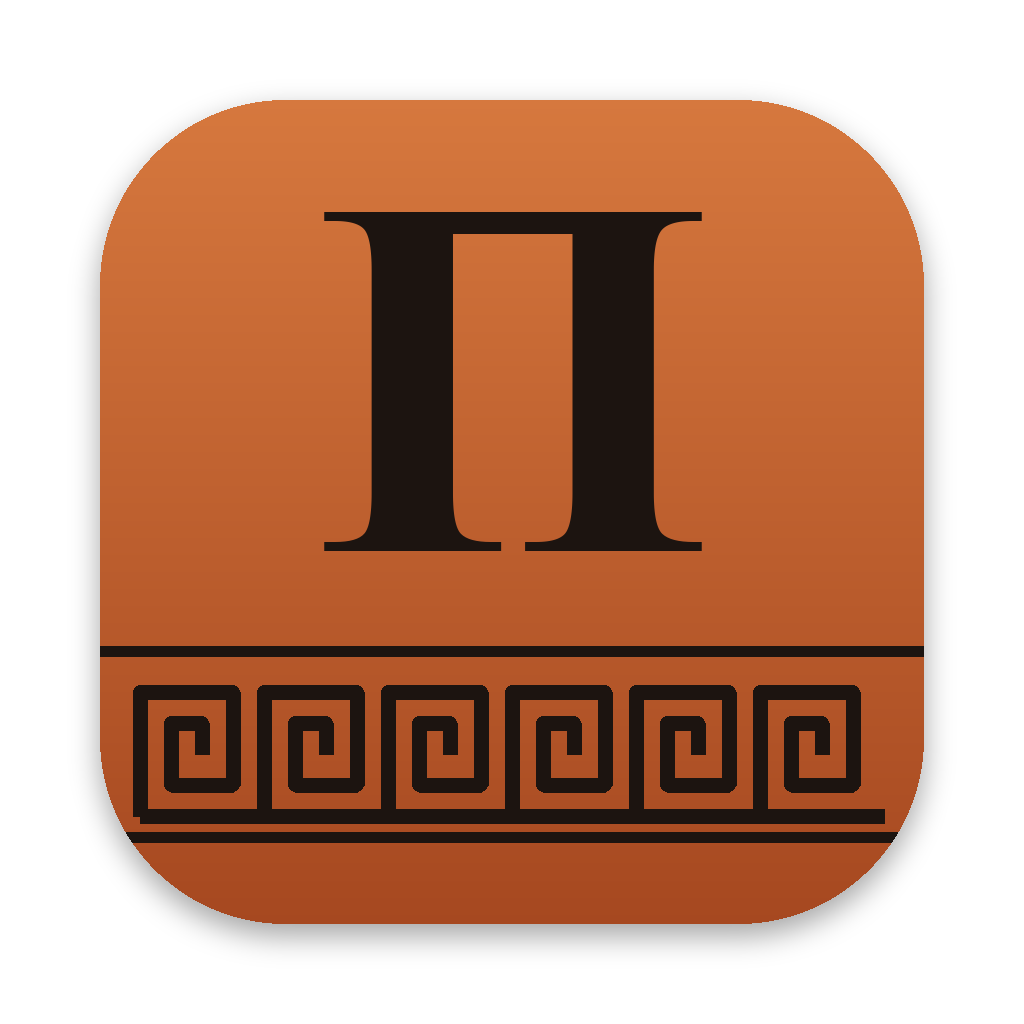
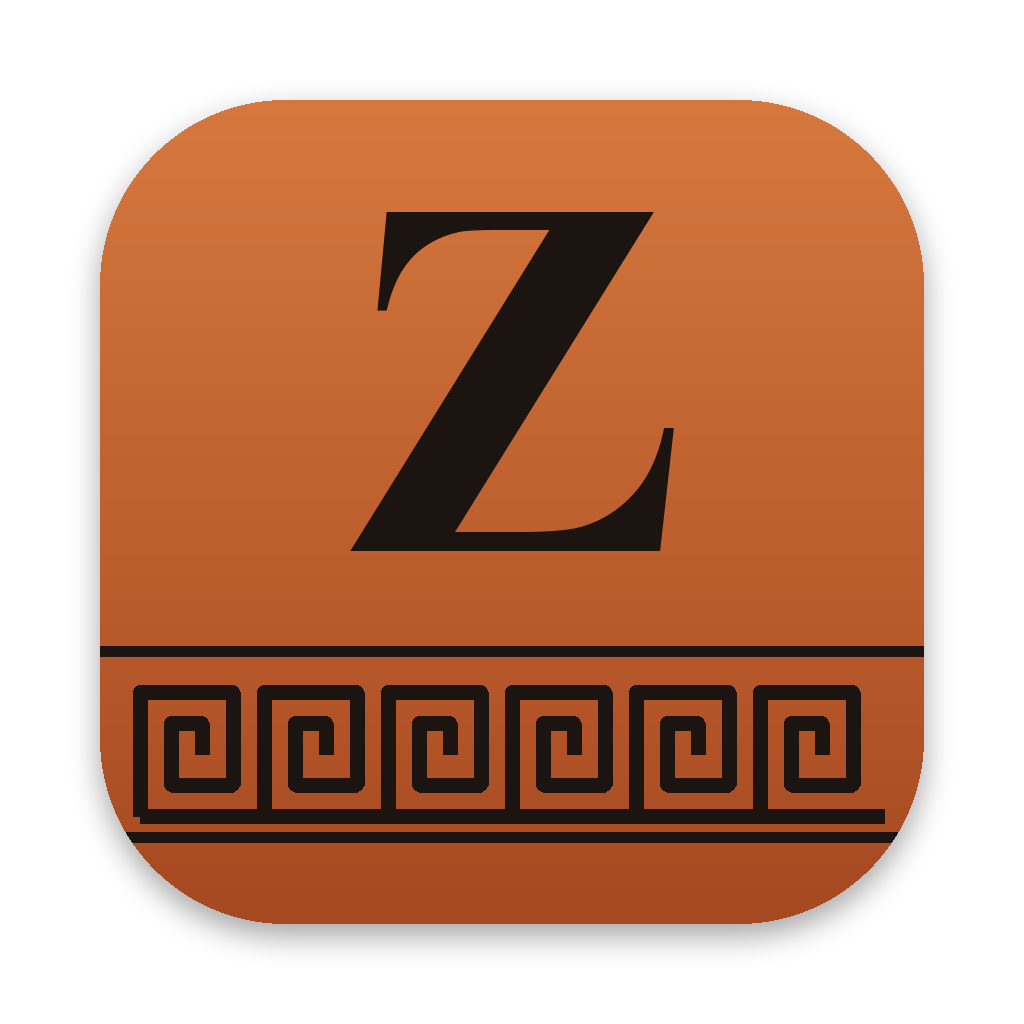
refactor: rename the app from Pinakes to Zetesis and prepare it for notarization
- Product, bundle id (com.tsevis.zetesis), source folders, Application Support folder, log,
  LaunchAgent label, defaults domain and ZETESIS_* environment variables all take the new name.
- The icon draws a black-figure Zeta instead of Pi.
- Hardened runtime is on, as notarization requires.
- README explains the name and how to sign and notarize with biblioteca's script.

Changed region(s): [[0.3125, 0.1875, 0.6875, 0.5312], [0.6562, 0.5312, 0.6875, 0.5625], [0.3125, 0.5312, 0.3438, 0.5625]]

diff --git a/Zetesis/Views/SettingsView.swift b/Zetesis/Views/SettingsView.swift
@@ -23,9 +23,9 @@ struct SettingsView: View {
                 }
             }
             Section("Ενημέρωση") {
-                Text("Όσο το Pinakes είναι ανοιχτό, κάθε νέο βιβλίο μπαίνει στο ευρετήριο μόλις τελειώσει η αντιγραφή του.")
+                Text("Όσο το Zetesis είναι ανοιχτό, κάθε νέο βιβλίο μπαίνει στο ευρετήριο μόλις τελειώσει η αντιγραφή του.")
                     .font(.callout).foregroundStyle(.secondary)
-                Toggle("Ενημέρωση και όταν το Pinakes είναι κλειστό", isOn: $backgroundUpdates)
+                Toggle("Ενημέρωση και όταν το Zetesis είναι κλειστό", isOn: $backgroundUpdates)
                     .onChange(of: backgroundUpdates) { _, on in setAgent(on) }
                     .disabled(model.library == nil)
                 if let agentError { Text(agentError).foregroundStyle(.red).font(.caption) }

diff --git a/Zetesis/Views/ContentView.swift b/Zetesis/Views/ContentView.swift
@@ -98,10 +98,10 @@ struct Onboarding: View {
 
     var body: some View {
         ContentUnavailableView {
-            Label("Pinakes", systemImage: "books.vertical")
+            Label("Zetesis", systemImage: "books.vertical")
         } description: {
             Text("Διάλεξε τον φάκελο με τα βιβλία σου (PDF, EPUB, φακέλους md). "
-                 + "Τίποτα δεν μετακινείται: το Pinakes διαβάζει, ταξινομεί και ψάχνει μέσα σε όλα.")
+                 + "Τίποτα δεν μετακινείται: το Zetesis διαβάζει, ταξινομεί και ψάχνει μέσα σε όλα.")
         } actions: {
             Button("Επιλογή φακέλου…") { FolderPicker.chooseLibrary(for: model) }
                 .buttonStyle(.borderedProminent)

diff --git a/Zetesis/Services/LibraryLocation.swift b/Zetesis/Services/LibraryLocation.swift
@@ -3,8 +3,8 @@ import Foundation
 /// Where things are: the library folder the user chose, and the index the engine keeps for it.
 enum LibraryLocation {
     static let supportFolder = FileManager.default.homeDirectoryForCurrentUser
-        .appending(path: "Library/Application Support/Pinakes", directoryHint: .isDirectory)
-    static let log = FileManager.default.homeDirectoryForCurrentUser.appending(path: "Library/Logs/Pinakes.log")
+        .appending(path: "Library/Application Support/Zetesis", directoryHint: .isDirectory)
+    static let log = FileManager.default.homeDirectoryForCurrentUser.appending(path: "Library/Logs/Zetesis.log")
     private static let libraryKey = "libraryPath"
 
     static var library: URL? {

diff --git a/Zetesis/Views/ReaderView.swift b/Zetesis/Views/ReaderView.swift
@@ -45,7 +45,7 @@ struct ReaderView: View {
                 ContentUnavailableView("Ο δίσκος της βιβλιοθήκης δεν είναι συνδεδεμένος", systemImage: "externaldrive")
             }
         }
-        .navigationTitle(book?.title ?? "Pinakes")
+        .navigationTitle(book?.title ?? "Zetesis")
         .navigationSubtitle(hits.isEmpty ? "σελ. \(page)" : "\(hits.count) σελίδες με ευρήματα · σελ. \(page)")
         .onChange(of: current) { _, id in
             if let hit = hits.first(where: { $0.id == id }) { page = hit.page }

diff --git a/Zetesis/Services/SearchEngine.swift b/Zetesis/Services/SearchEngine.swift
@@ -10,8 +10,8 @@ final class SearchEngine: Sendable {
     let databaseURL: URL
     private let ranker: SQLiteConnection
     private let reader: SQLiteConnection
-    private let rankQueue = DispatchQueue(label: "pinakes.rank", qos: .userInitiated)
-    private let readQueue = DispatchQueue(label: "pinakes.read", qos: .userInitiated)
+    private let rankQueue = DispatchQueue(label: "zetesis.rank", qos: .userInitiated)
+    private let readQueue = DispatchQueue(label: "zetesis.read", qos: .userInitiated)
 
     init(databaseURL: URL) throws {
         self.databaseURL = databaseURL

diff --git a/Zetesis/Services/EngineInstall.swift b/Zetesis/Services/EngineInstall.swift
@@ -46,7 +46,7 @@ enum EngineInstall {
     }
 
     static func environment(library: URL) -> [String: String] {
-        ["PATH": toolPath, "HOME": NSHomeDirectory(), "PINAKES_LIBRARY": library.path(percentEncoded: false),
+        ["PATH": toolPath, "HOME": NSHomeDirectory(), "ZETESIS_LIBRARY": library.path(percentEncoded: false),
          "PYTHONDONTWRITEBYTECODE": "1", "LANG": "el_GR.UTF-8"]
     }
 }

diff --git a/Zetesis/Services/BackgroundAgent.swift b/Zetesis/Services/BackgroundAgent.swift
@@ -6,7 +6,7 @@ enum BackgroundAgent {
 
     static var isInstalled: Bool {
         let names = (try? FileManager.default.contentsOfDirectory(atPath: agents.path)) ?? []
-        return names.contains { $0.hasPrefix("com.tsevis.pinakes.update.") }
+        return names.contains { $0.hasPrefix("com.tsevis.zetesis.update.") }
     }
 
     static func set(_ on: Bool, library: URL) async throws {

diff --git a/Zetesis/App/ZetesisApp.swift b/Zetesis/App/ZetesisApp.swift
@@ -1,11 +1,11 @@
 import SwiftUI
 
 @main
-struct PinakesApp: App {
+struct ZetesisApp: App {
     @State private var model = LibraryModel()
 
     var body: some Scene {
-        Window("Pinakes", id: "main") {
+        Window("Zetesis", id: "main") {
             ContentView()
                 .environment(model)
                 .frame(minWidth: 960, minHeight: 600)
